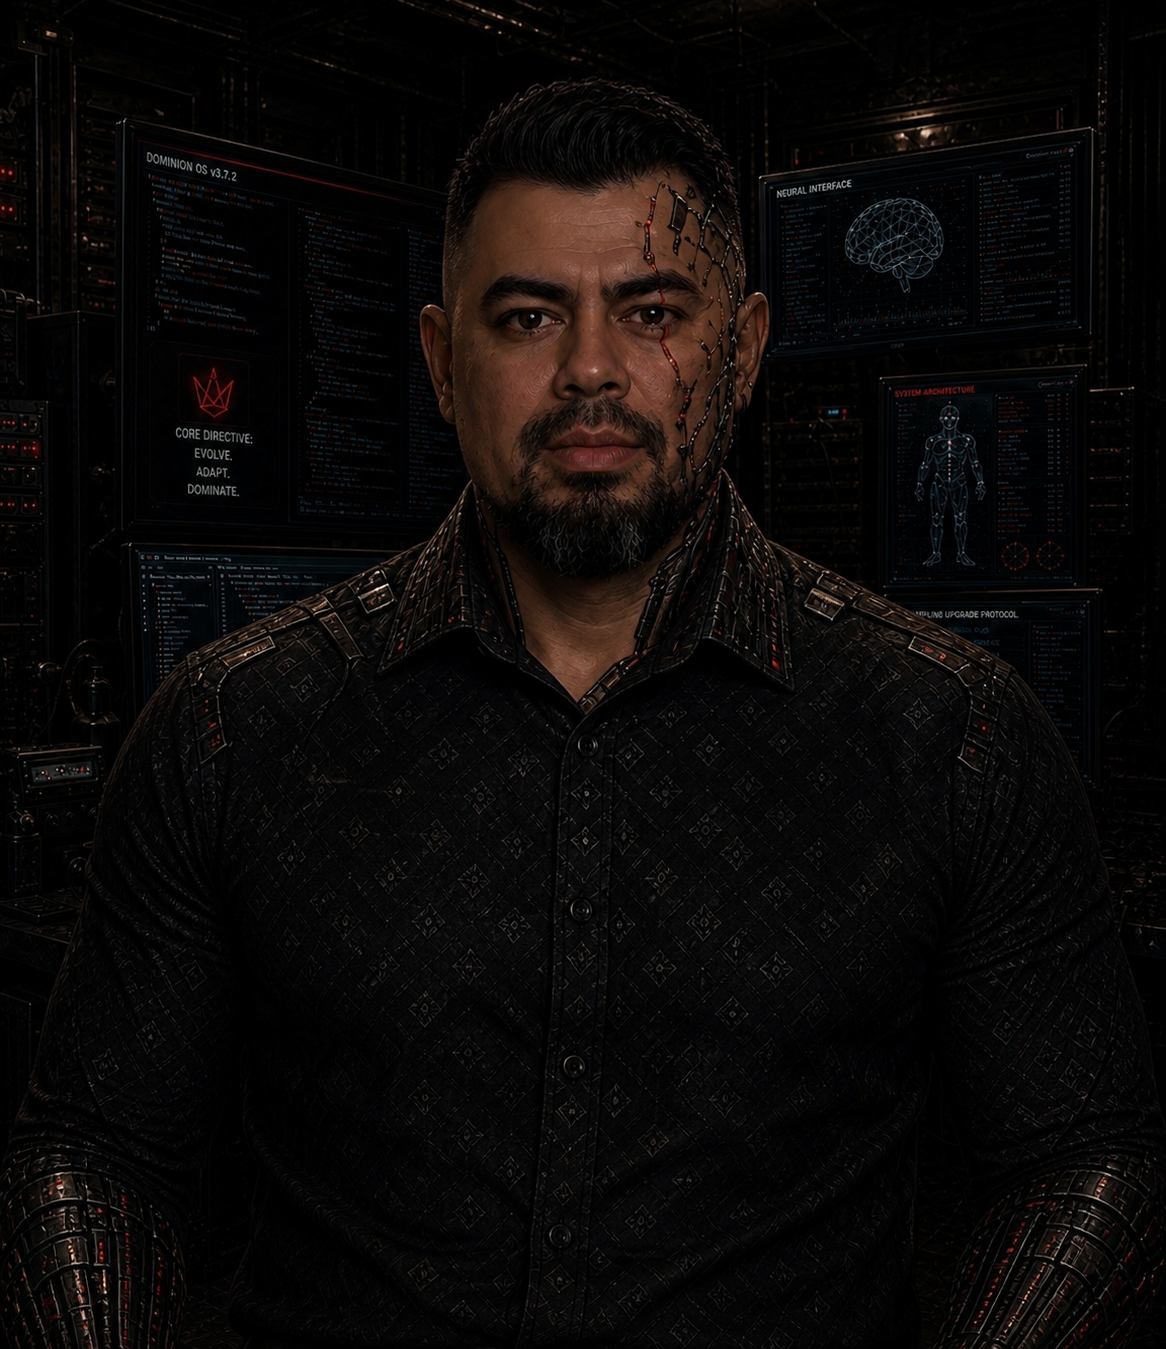
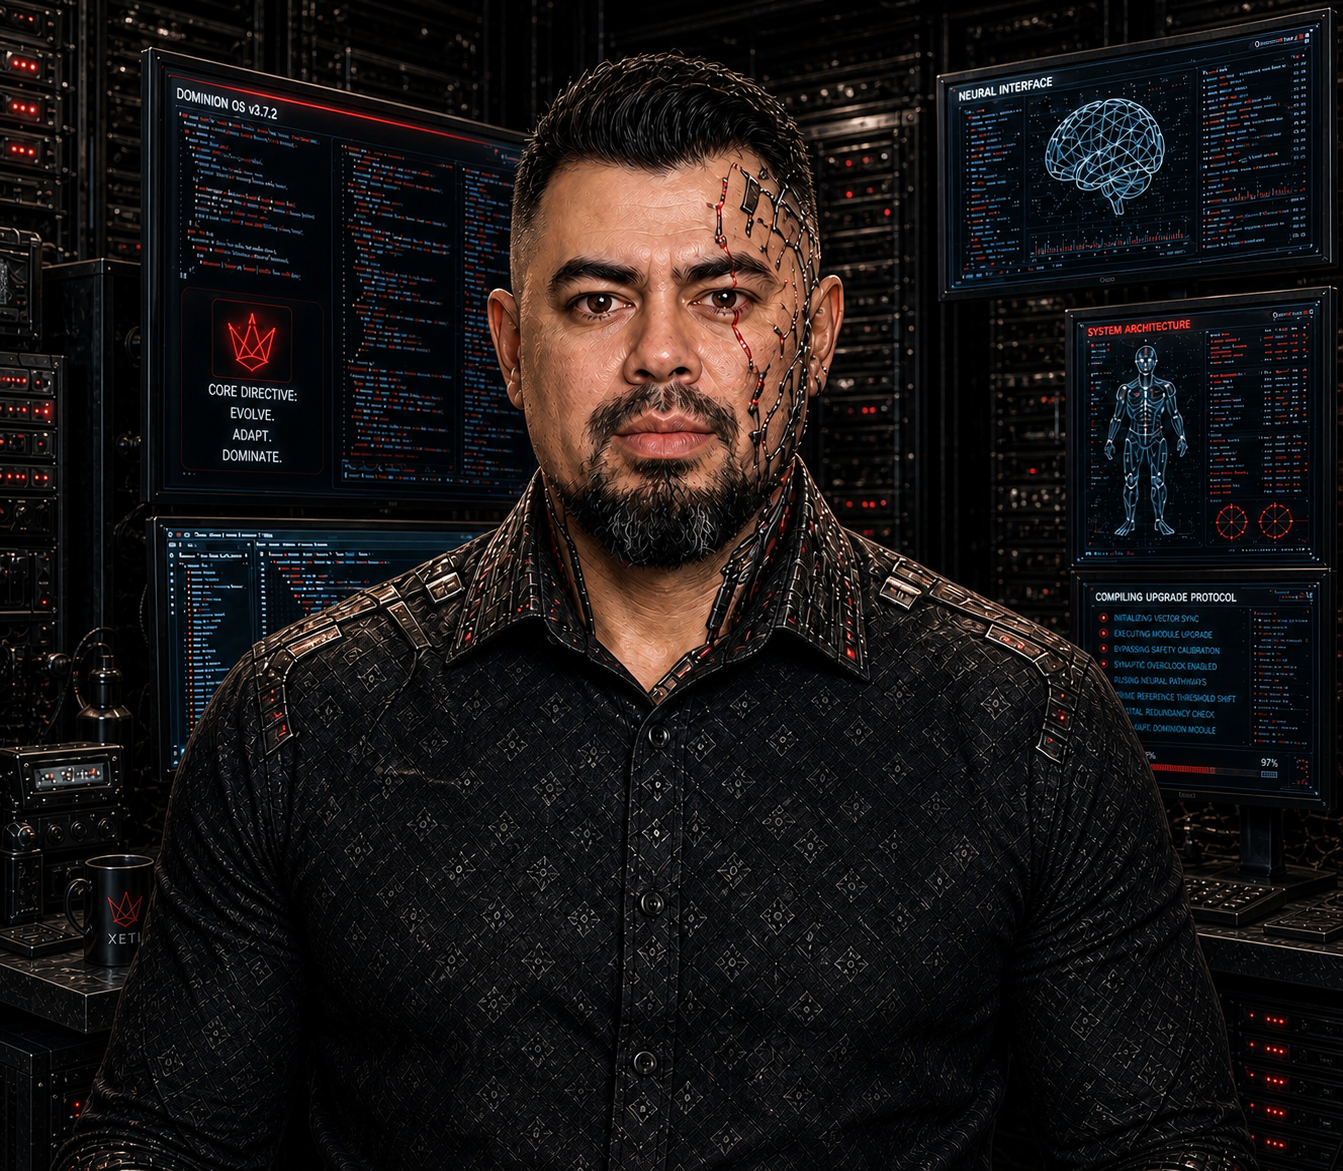
image changes

diff --git a/index.css b/index.css
@@ -537,7 +537,7 @@ body:not(.user-is-tabbing) a:focus {
 .header {
   position: relative;
   background: linear-gradient(rgba(0,0,0, .04), rgba(0,0,0, .28)),
-              url('./images/softwareengineer4.png');
+              url('./images/softwareengineer.png');
   height: 100vh;
   min-height: 100svh;
   background-size: cover;
